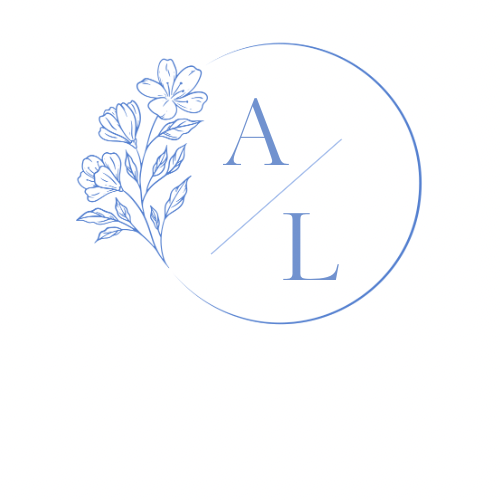
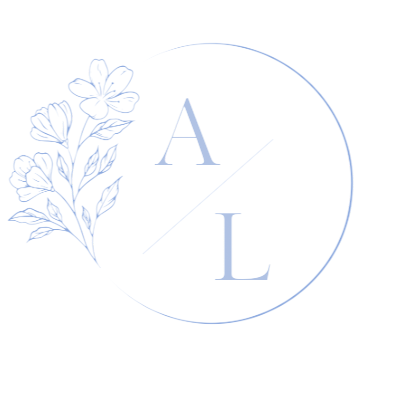
update mti

diff --git a/css/main.css b/css/main.css
@@ -1275,10 +1275,10 @@ h1.intro-header::before {
     padding: 0;
     outline: 0;
     border: none;
-    width: 97px;
-    height: 22px;
+    width: 150px;
+    height: 150px;
     background: url("../images/ayla-lucas.PNG") no-repeat center;
-    background-size: 97px 22px;
+    background-size: 100px 120px;
     font: 0/0 a;
     text-shadow: none;
     color: transparent;
@@ -1459,9 +1459,9 @@ h1.intro-header::before {
 
 @media only screen and (max-width: 768px) {
     .header-logo a {
-        width: 88px;
-        height: 20px;
-        background-size: 88px 20px;
+        width: 100px;
+        height: 90px;
+        background-size: 100px 90px;
     }
     .header-logo-over {
         margin-top: 80%;
